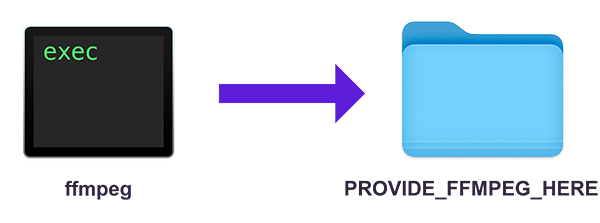
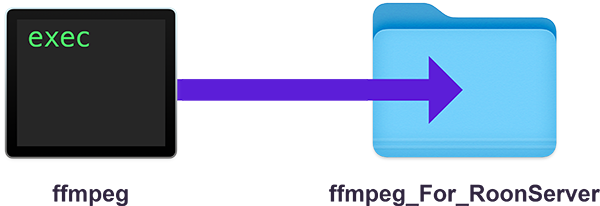
ffmpeg provide implementation

Changed region(s): [[0.0, 0.0, 1.0, 1.0], [0.09, 0.8155, 0.24, 1.0]]

diff --git a/QPKG/shared/web/RoonServerQNAP.css b/QPKG/shared/web/RoonServerQNAP.css
@@ -21,6 +21,25 @@ body {
     animation: stroke 0.6s cubic-bezier(0.65, 0, 0.45, 1) forwards;
 }
 
+.btn-file {
+    position: relative;
+    overflow: hidden;
+}
+.btn-file input[type=file] {
+    position: absolute;
+    top: 0;
+    right: 0;
+    min-width: 100%;
+    min-height: 100%;
+    font-size: 100px;
+    text-align: right;
+    filter: alpha(opacity=0);
+    opacity: 0;
+    outline: none;
+    background: white;
+    cursor: inherit;
+    display: block;
+}
 .checkmark {
     width: 56px;
     height: 56px;
@@ -106,6 +125,17 @@ body {
 .btn-icon {
     margin-right: 10px;
 }
+
+.btn-group-xs > .btn, .btn-xs {
+  padding: .25rem .4rem;
+  font-size: .875rem;
+  line-height: .5;
+  border-radius: .6rem;
+  background-color: #dddddd;
+  border: 0px;
+  color: black;
+}
+
 .ghicon {
     vertical-align: middle;
 }

diff --git a/QPKG/shared/web/index.php b/QPKG/shared/web/index.php
@@ -388,81 +388,138 @@ include_once("/home/httpd/cgi-bin/qpkg/RoonServer/__functions.php");
     function db_save_button() {
         if (!dbexist) {
             save_location();
-            selectStorageSuccess();
+            btn_LocationSaved = '<?php echo str_replace("'", "\'", localize("MODAL_SETUP_BTN_LOCATION_SAVED")); ?>';
+            SuccessAni('#modal-body', btn_LocationSaved);
             dbexist = true;
         }
         else if (newdbpath != currentPath) {
-            $('#modal-content').html('<div class="modal-header">\n' +
-                '<h4 class="modal-title"><?php echo str_replace("'", "\'", localize("MODAL_SETUP_RESTART_HEADLINE")); ?></h4>\n' +
-                '<button type="button" class="close" data-dismiss="modal" aria-hidden="true">×</button>\n' +
-                '</div>\n' +
-                '<div id="modal-body" class="modal-body">\n' +
+            $('#modal-content').html('<div class="modal-header">' +
+                '<h4 class="modal-title"><?php echo str_replace("'", "\'", localize("MODAL_SETUP_RESTART_HEADLINE")); ?></h4>' +
+                '<button type="button" class="close" data-dismiss="modal" aria-hidden="true">×</button>' +
+                '</div>' +
+                '<div id="modal-body" class="modal-body">' +
                 '<?php echo str_replace("'", "\'", localize("MODAL_SETUP_RESTART_TEXT")); ?>' +
-                '<a id="restartRoonServer" href="#" onclick="saveAndRestart()">\n' +
-                '<div class="fa-4x text-center" style="text-align: center;">\n' +
+                '<a id="saveDBrestartRoonServer" href="#" onclick="saveAndRestart()">' +
+                '<div class="fa-4x text-center" style="text-align: center;">' +
 
-                '<span class="fa-layers fa-fw">\n' +
-                '<i class="fas fa-circle"></i>\n' +
-                '<i class="fa-inverse fas fa-redo-alt faa-shake animated" data-fa-transform="shrink-8"></i>\n' +
-                '</span>\n' +
-                '</div>\n' +
-                '<div class="text-center">\n' +
-                '<?php echo str_replace("'", "\'", localize("MODAL_SETUP_RESTART_ROONSERVER")); ?>\n' +
-                '</div>\n' +
-                '</a>\n' +
-                '</div>\n');
+                '<span class="fa-layers fa-fw">' +
+                '<i class="fas fa-circle"></i>' +
+                '<i class="fa-inverse fas fa-redo-alt faa-shake animated" data-fa-transform="shrink-8"></i>' +
+                '</span>' +
+                '</div>' +
+                '<div class="text-center">' +
+                '<?php echo str_replace("'", "\'", localize("MODAL_SETUP_RESTART_ROONSERVER")); ?>' +
+                '</div>' +
+                '</a>' +
+                '</div>');
         }
         else {
-            $('#modal-content').html('<div class="modal-header">\n' +
-                '<h4 class="modal-title"><?php echo str_replace("'", "\'", localize("MODAL_SETUP_RESTART_SAME_PATH")); ?></h4>\n' +
-                '<button type="button" class="close" data-dismiss="modal" aria-hidden="true">×</button>\n' +
-                '</div>\n' +
-                '<div id="modal-body" class="modal-body">\n' +
+            $('#modal-content').html('<div class="modal-header">' +
+                '<h4 class="modal-title"><?php echo str_replace("'", "\'", localize("MODAL_SETUP_RESTART_SAME_PATH")); ?></h4>' +
+                '<button type="button" class="close" data-dismiss="modal" aria-hidden="true">×</button>' +
+                '</div>' +
+                '<div id="modal-body" class="modal-body">' +
                 '<?php echo str_replace("'", "\'", localize("MODAL_SETUP_RESTART_SAME_PATH_TEXT")); ?>' +
-                '<a id="restartRoonServer" href="#" data-dismiss="modal">\n' +
-                '<div class="fa-4x text-center" style="text-align: center;">\n' +
-                '<span class="fa-layers fa-fw">\n' +
-                '<i class="fas fa-exclamation-circle faa-shake animated"></i>\n' +
-                '</span>\n' +
-                '</div>\n' +
-                '<div class="text-center">\n' +
-                '<?php echo str_replace("'", "\'", localize("BTN_CLOSE")); ?>\n' +
-                '</div>\n' +
-                '</a>\n' +
-                '</div>\n');
+                '<a id="restartRoonServer" href="#" data-dismiss="modal">' +
+                '<div class="fa-4x text-center" style="text-align: center;">' +
+                '<span class="fa-layers fa-fw">' +
+                '<i class="fas fa-exclamation-circle faa-shake animated"></i>' +
+                '</span>' +
+                '</div>' +
+                '<div class="text-center">' +
+                '<?php echo str_replace("'", "\'", localize("BTN_CLOSE")); ?>' +
+                '</div>' +
+                '</a>' +
+                '</div>');
         }
     }
     
     
-        function ffmpeg_folder_info(clientos) {
+    function ffmpeg_folder_info(clientos) {
+        $('#modal-body').html('<?php echo str_replace("'", "\'", localize("MODAL_FFMPEG_DESCRIPTION_4")) ?><br><br>' +
+        '<b><?php echo localize('COMMON_PATH'); ?>:</b><?php echo str_replace("/", " / ", $dblocation ); ?> / ffmpeg_For_RoonServer<br><br>' + 
+        '<img width="300" height="112" style="text-align: center; display:block; margin: auto;" src="img/dropffmpeg_'+ clientos +'.png" \> <br>' +
+        '<?php echo str_replace("'", "\'", localize("MODAL_FFMPEG_DESCRIPTION_5")) ?><br><br>' +
+        '<?php echo str_replace("'", "\'", localize("MODAL_FFMPEG_DESCRIPTION_6")) ?><br>' + 
+        '<a id="restartRoonServer" href="#" onclick="checkFFmpegAndrestart()">' +
+                '<div class="fa-4x text-center" style="text-align: center;">' +
+                '<span class="fa-layers fa-fw">' +
+                '<i class="fas fa-circle"></i>' +
+                '<i class="fa-inverse fas fa-redo-alt faa-shake animated" data-fa-transform="shrink-8"></i>' +
+                '</span>' +
+                '</div>' +
+                '<div class="text-center">' +
+                '<?php echo str_replace("'", "\'", localize("MODAL_FFMPEG_BUTTON_USE_FFMPEG_BTN")); ?>' +
+                '</div>' +
+                '</a>');
+    }
+
+    function ffmpeg_removed_info() {
             
-            $('#modal-body').html('<?php echo str_replace("'", "\'", localize("MODAL_FFMPEG_DESCRIPTION_4")) ?><br><br>' +
-            '<img width="300" height="112" style="text-align: center; display:block; margin: auto;" src="img/dropffmpeg_'+ clientos +'.png" \> <br>' +
-            '<?php echo str_replace("'", "\'", localize("MODAL_FFMPEG_DESCRIPTION_5")) ?><br><br>' +
-            '<?php echo str_replace("'", "\'", localize("MODAL_FFMPEG_DESCRIPTION_6")) ?>');
-        }
+        $('#modal-body').html('<?php echo str_replace("'", "\'", localize("MODAL_FFMPEG_REMOVE_DESCRIPTION_1")) ?><br><br>' +
+        '<?php echo str_replace("'", "\'", localize("MODAL_FFMPEG_REMOVE_DESCRIPTION_2")) ?><br><br>' +
+        '<a id="restartRoonServer" href="#" onclick="RemoveFfmpegAndRestartRoonServer()">' +
+                '<div class="fa-4x text-center" style="text-align: center;">' +
+
+                '<span class="fa-layers fa-fw">' +
+                '<i class="fas fa-circle"></i>' +
+                '<i class="fa-inverse fas fa-redo-alt faa-shake animated" data-fa-transform="shrink-8"></i>' +
+                '</span>' +
+                '</div>' +
+                '<div class="text-center">' +
+                '<?php echo str_replace("'", "\'", localize("MODAL_FFMPEG_REMOVE_FFMPEG_BTN")); ?>' +
+                '</div>' +
+                '</a>');
+    }
     
+    
+    
+    function RemoveFfmpegAndRestartRoonServer() {
+            var action = 'removeffmpeg';
+            var strUrl = '<?php echo NASHOST;?>/cgi-bin/qpkg/RoonServer/ajax/ajax.php?a=' + action;
+            $.ajax({
+                type: 'POST',
+                url: strUrl,
+                success: function(data) {
+                    restartRoonServer();
+                    SuccessAni('#modal-body', '<?php echo localize("MODAL_FFMPEG_FFMPEG_REMOVE_CHECK"); ?>')
+                }
+            });
+        }
+
     function selectStorageSuccess() {
 
         btn_LocationSaved = '<?php echo str_replace("'", "\'", localize("MODAL_SETUP_BTN_LOCATION_SAVED")); ?>';
         SuccessAni('#modal-body', btn_LocationSaved);
-
-        $.ajax({
-            url: '<?php echo NASHOST;?>/cgi-bin/qpkg/RoonServer/ajax/ajax.php?a=startRoonServer'
-        });
     }
 
     function saveAndRestart() {
         save_location();
         restartRoonServer();
+        btn_LocationSaved = '<?php echo str_replace("'", "\'", localize("MODAL_SETUP_BTN_LOCATION_SAVED")); ?>';
+        SuccessAni('#modal-body', btn_LocationSaved);
+
     }
 
     function restartRoonServer() {
         $.ajax({
             url: '<?php echo NASHOST;?>/cgi-bin/qpkg/RoonServer/ajax/ajax.php?a=restartRoonServer'
         });
-        selectStorageSuccess();
+    }
 
+    function checkFFmpegAndrestart() {
+        $.ajax({
+            url: '<?php echo NASHOST;?>/cgi-bin/qpkg/RoonServer/ajax/ajax.php?a=checkFfmpeg',
+            dataType: 'json',
+            success: function (response) {
+                if (response.success) {
+                    restartRoonServer();
+                    SuccessAni('#modal-body', '<?php echo localize("MODAL_FFMPEG_FFMPEG_CHECK_SUCCESS") ?>');
+                } else {
+                    alert('ffmpeg file not found.');
+                }
+            }
+        });
     }
 
     function restartRoonServerAndRefresh() {

diff --git a/QPKG/shared/web/modals.php b/QPKG/shared/web/modals.php
@@ -1,15 +1,3 @@
-<style>
-    .file-field.medium .file-path-wrapper {
-    height: 3rem; }
-    .file-field.medium .file-path-wrapper .file-path {
-    height: 2.8rem; }
-    
-    .file-field.big-2 .file-path-wrapper {
-    height: 3.7rem; }
-    .file-field.big-2 .file-path-wrapper .file-path {
-    height: 3.5rem; }
-</style>
-    
 <?php
 
 include_once("/home/httpd/cgi-bin/qpkg/RoonServer/__include.php");
@@ -90,6 +78,24 @@ if ($section == "reinstall") {
             '<button type="button" class="btn btn-outline-secondary btn-close" data-dismiss="modal">' . localize("BTN_CLOSE") . '</button>');
 }
 if ($section == "ffmpeg") {
+    if ($customFfmpeg == true) {
+        $removeFfmpeg='<a class="removeffmpeg" href="#">' .
+                        '<div class="col-md-6" style="float: right; margin: 0 auto;">' .
+                            '<div class="fa-4x text-center" style="text-align: center;">' .
+                                '<span class="fa-layers fa-fw">' .
+                                    '<i class="fas fa-trash-alt"></i>' .
+                                '</span>' .
+                            '</div>' .
+                            '<div class="text-center">' .
+                                localize("MODAL_FFMPEG_REMOVE") .
+                            '</div>' .
+                        '</div>' .
+                      '</a>';
+        } 
+    else {
+        $removeFfmpeg='';
+    }
+            
     echo nl2br(
             '<div class="modal-header">' .
             '<h4 id="modal-title" class="modal-title"><img style="align: center; width: 30px; height: auto; margin-right: 20px;" src="img/file_ffmpeg.svg">' . localize("MODAL_FFMPEG_HEADLINE") . '</h4>' .
@@ -99,19 +105,21 @@ if ($section == "ffmpeg") {
             localize("MODAL_FFMPEG_DESCRIPTION_1") . '<br>' .
             localize("MODAL_FFMPEG_DESCRIPTION_2") .'<br><br>' .
             localize("MODAL_FFMPEG_DESCRIPTION_3") . '</b><br>' .
-            '<span id="download-area">' .
+            '<div id="row">' .
                 '<a class="provideffmpeg" href="#">' .
-                    '<div class="fa-4x text-center" style="text-align: center;">' .
-                        '<span class="fa-layers fa-fw">' .
-                            '<i class="fas fa-folder"></i>' .
-                            '<i class="fa-inverse fas fa-plus-square" data-fa-transform="shrink-10 down-1"></i>' .
-                        '</span>' .
+                    '<div class="col-md-6" style="float: left; margin: 0 auto;">' . 
+                        '<div class="fa-4x text-center" style="text-align: center;">' .
+                            '<span class="fa-layers fa-fw">' .
+                                '<i class="fas fa-folder"></i>' .
+                                '<i class="fa-inverse fas fa-plus-square" data-fa-transform="shrink-10 down-1"></i>' .
+                            '</span>' .
+                        '</div>' .
+                        '<div class="text-center">' .
+                            localize("MODAL_FFMPEG_CREATE_FOLDER") .
+                        '</div>' .
                     '</div>' .
-                    '<div class="text-center">' .
-                        localize("MODAL_FFMPEG_CREATE_FOLDER") .
-                    '</div>' .
-                '</a>' .
-            '</span>' .
+                '</a>' . $removeFfmpeg .
+            '</div>' .
         '</div>' .
         '<div class="modal-footer">' .
             '<button type="button" class="btn btn-outline-secondary btn-close" data-dismiss="modal">' . localize("BTN_CLOSE") . '</button>');
@@ -145,7 +153,6 @@ if(isset($_POST["submit"])) {
         $(".provideffmpeg").click(function(){
             var action = 'provideffmpeg';
             var strUrl = '<?php echo NASHOST;?>/cgi-bin/qpkg/RoonServer/ajax/ajax.php?a=' + action;
-
             var is_OSX = /(Mac|iPhone|iPod|iPad)/i.test(navigator.platform);
             if (is_OSX) { clientos = "apple" } else { clientos = "pc"} 
             $.ajax({
@@ -155,6 +162,10 @@ if(isset($_POST["submit"])) {
                     ffmpeg_folder_info(clientos);
                 }
             });
+        });
+        
+        $(".removeffmpeg").click(function(){
+            ffmpeg_removed_info();
         });
     });
 </script>

diff --git a/QPKG/shared/web/ajax/ajax.php b/QPKG/shared/web/ajax/ajax.php
@@ -59,9 +59,31 @@ if ($strVarAction == 'dbPathIsSet') {
 }
 
 if ($strVarAction == 'provideffmpeg') {
-    $ffmpegfoldername="PROVIDE_FFMPEG_HERE";
+    $ffmpegfoldername="ffmpeg_For_RoonServer";
     if (!file_exists('/share' . $dblocation . '/' . $ffmpegfoldername)) {
         mkdir('/share' . $dblocation . '/' . $ffmpegfoldername, 0777, true);
+    }
+}
+
+if ($strVarAction == 'checkFfmpeg') {
+    $ffmpegfoldername="ffmpeg_For_RoonServer";
+    header('Content-Type: application/json');
+    $ffmpegoutput = is_file('/share' . $dblocation . '/' . $ffmpegfoldername .'/ffmpeg');
+    if ($ffmpegoutput !== false ) {
+        echo json_encode(array(
+            'success' => true
+        ));    
+    } else {
+        echo json_encode(array(
+            'success' => false
+        ));
+    }
+}
+
+if ($strVarAction == 'removeffmpeg') {
+    $ffmpegfile=APPINSTALLPATH . '/bin/ffmpeg';
+    if (file_exists($ffmpegfile)) {
+        unlink($ffmpegfile);
     }
 }
 
@@ -80,11 +102,6 @@ if ($strVarAction == 'redownload') {
 if ($strVarAction == 'downloadlogs') {
     $output = downloadLogs($strSessionID, $dblocation);
     return $output;
-}
-
-if ($strVarAction == 'startRoonServer') {
-    $startScript = '/sbin/qpkg_service restart RoonServer';
-    shell_exec($startScript);
 }
 
 if ($strVarAction == 'restartRoonServer') {
